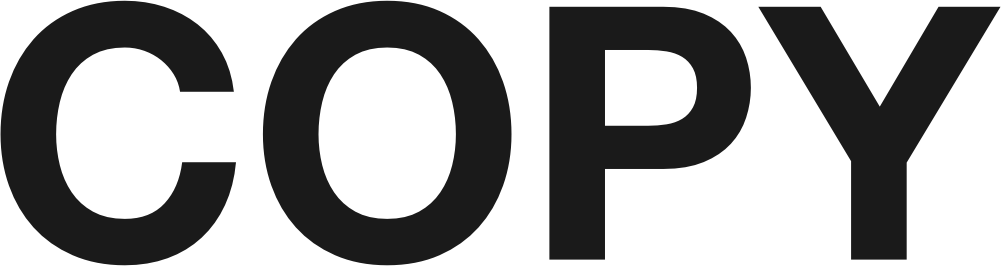
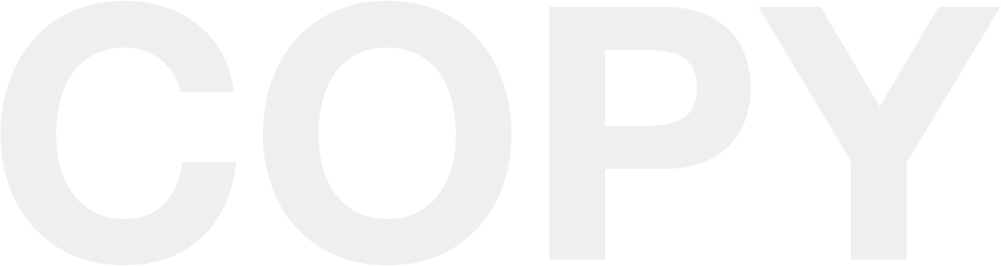
fixed overlay opacity

diff --git a/lib/util/uploader.js b/lib/util/uploader.js
@@ -75,7 +75,6 @@ var uploader = {
           var paddedWidth = size.width / 1.3;
           var paddedHeight= paddedWidth / watermark_ratio;
           this.composite(watermark)
-          this.dissolve('7')
           this.geometry(paddedWidth+'x'+paddedHeight+'+0+0')
           this.gravity('Center')
           this.stream(function(err, stdout, stderr) {
@@ -92,7 +91,6 @@ var uploader = {
           var paddedWidth = size.width / 1.3;
           var paddedHeight= paddedWidth / watermark_ratio;
           this.composite(watermark)
-          this.dissolve('7')
           this.geometry(paddedWidth+'x'+paddedHeight+'+0+0')
           this.gravity('Center')
           this.stream(function(err, stdout, stderr) {
